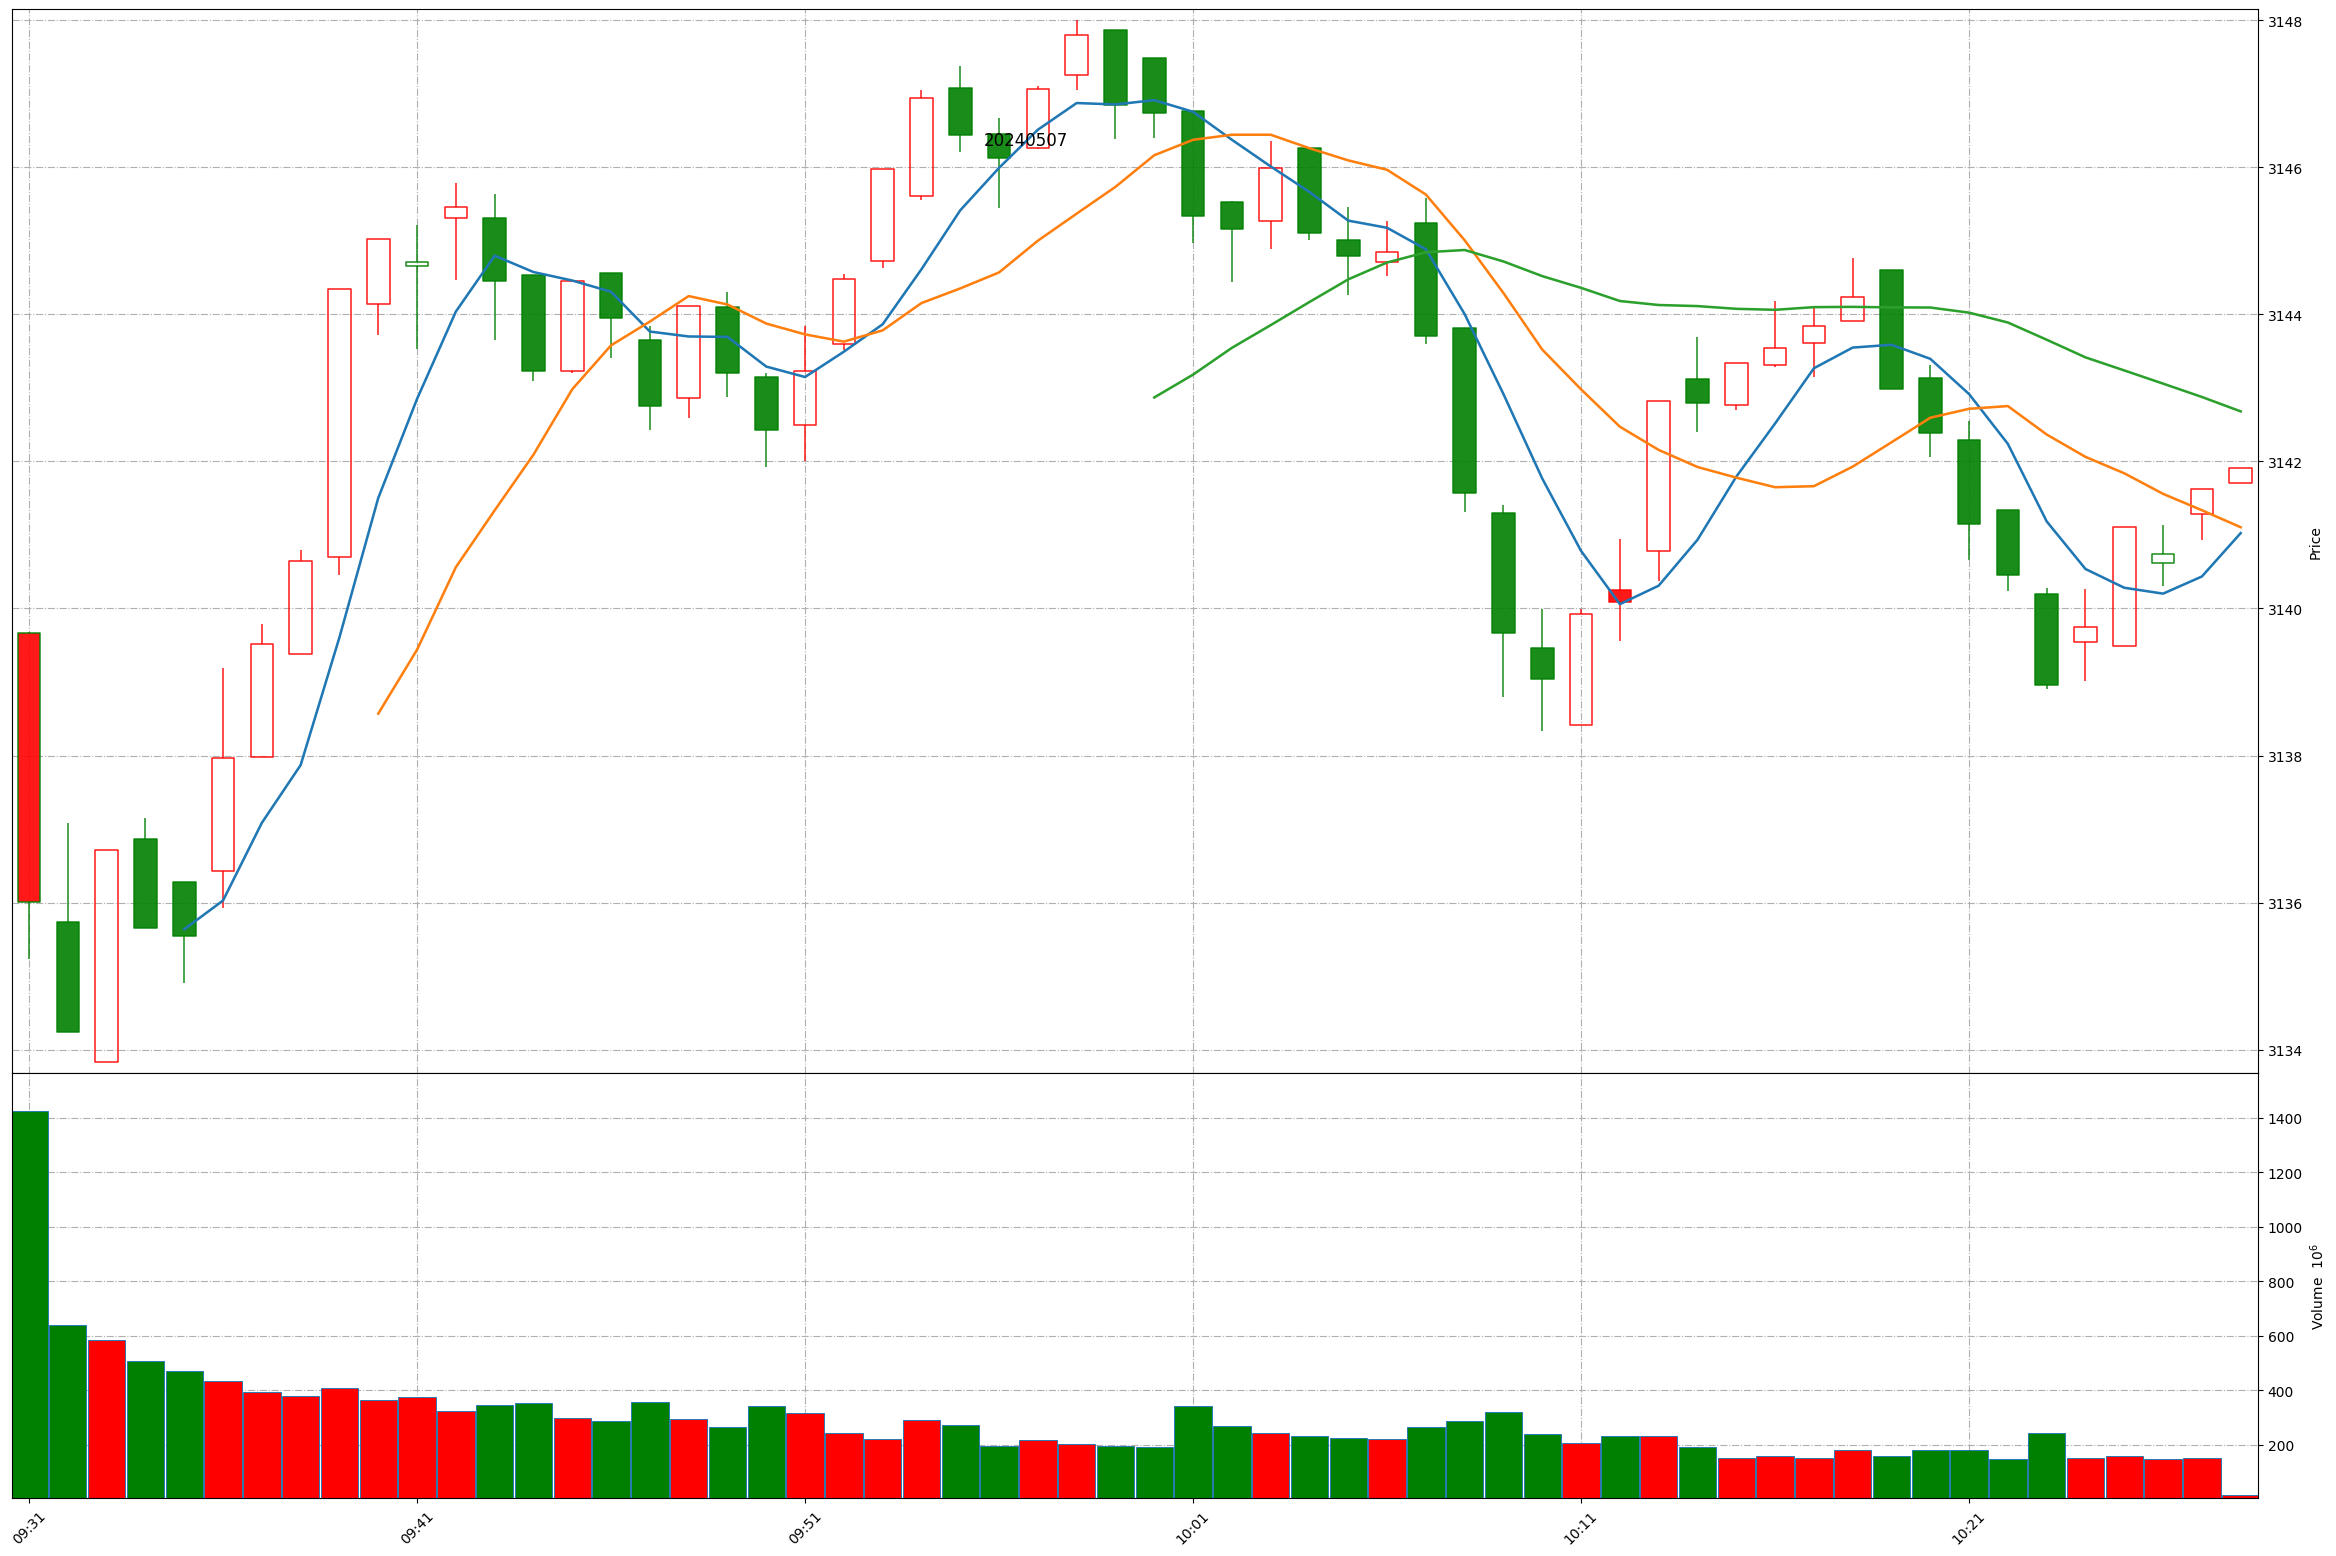
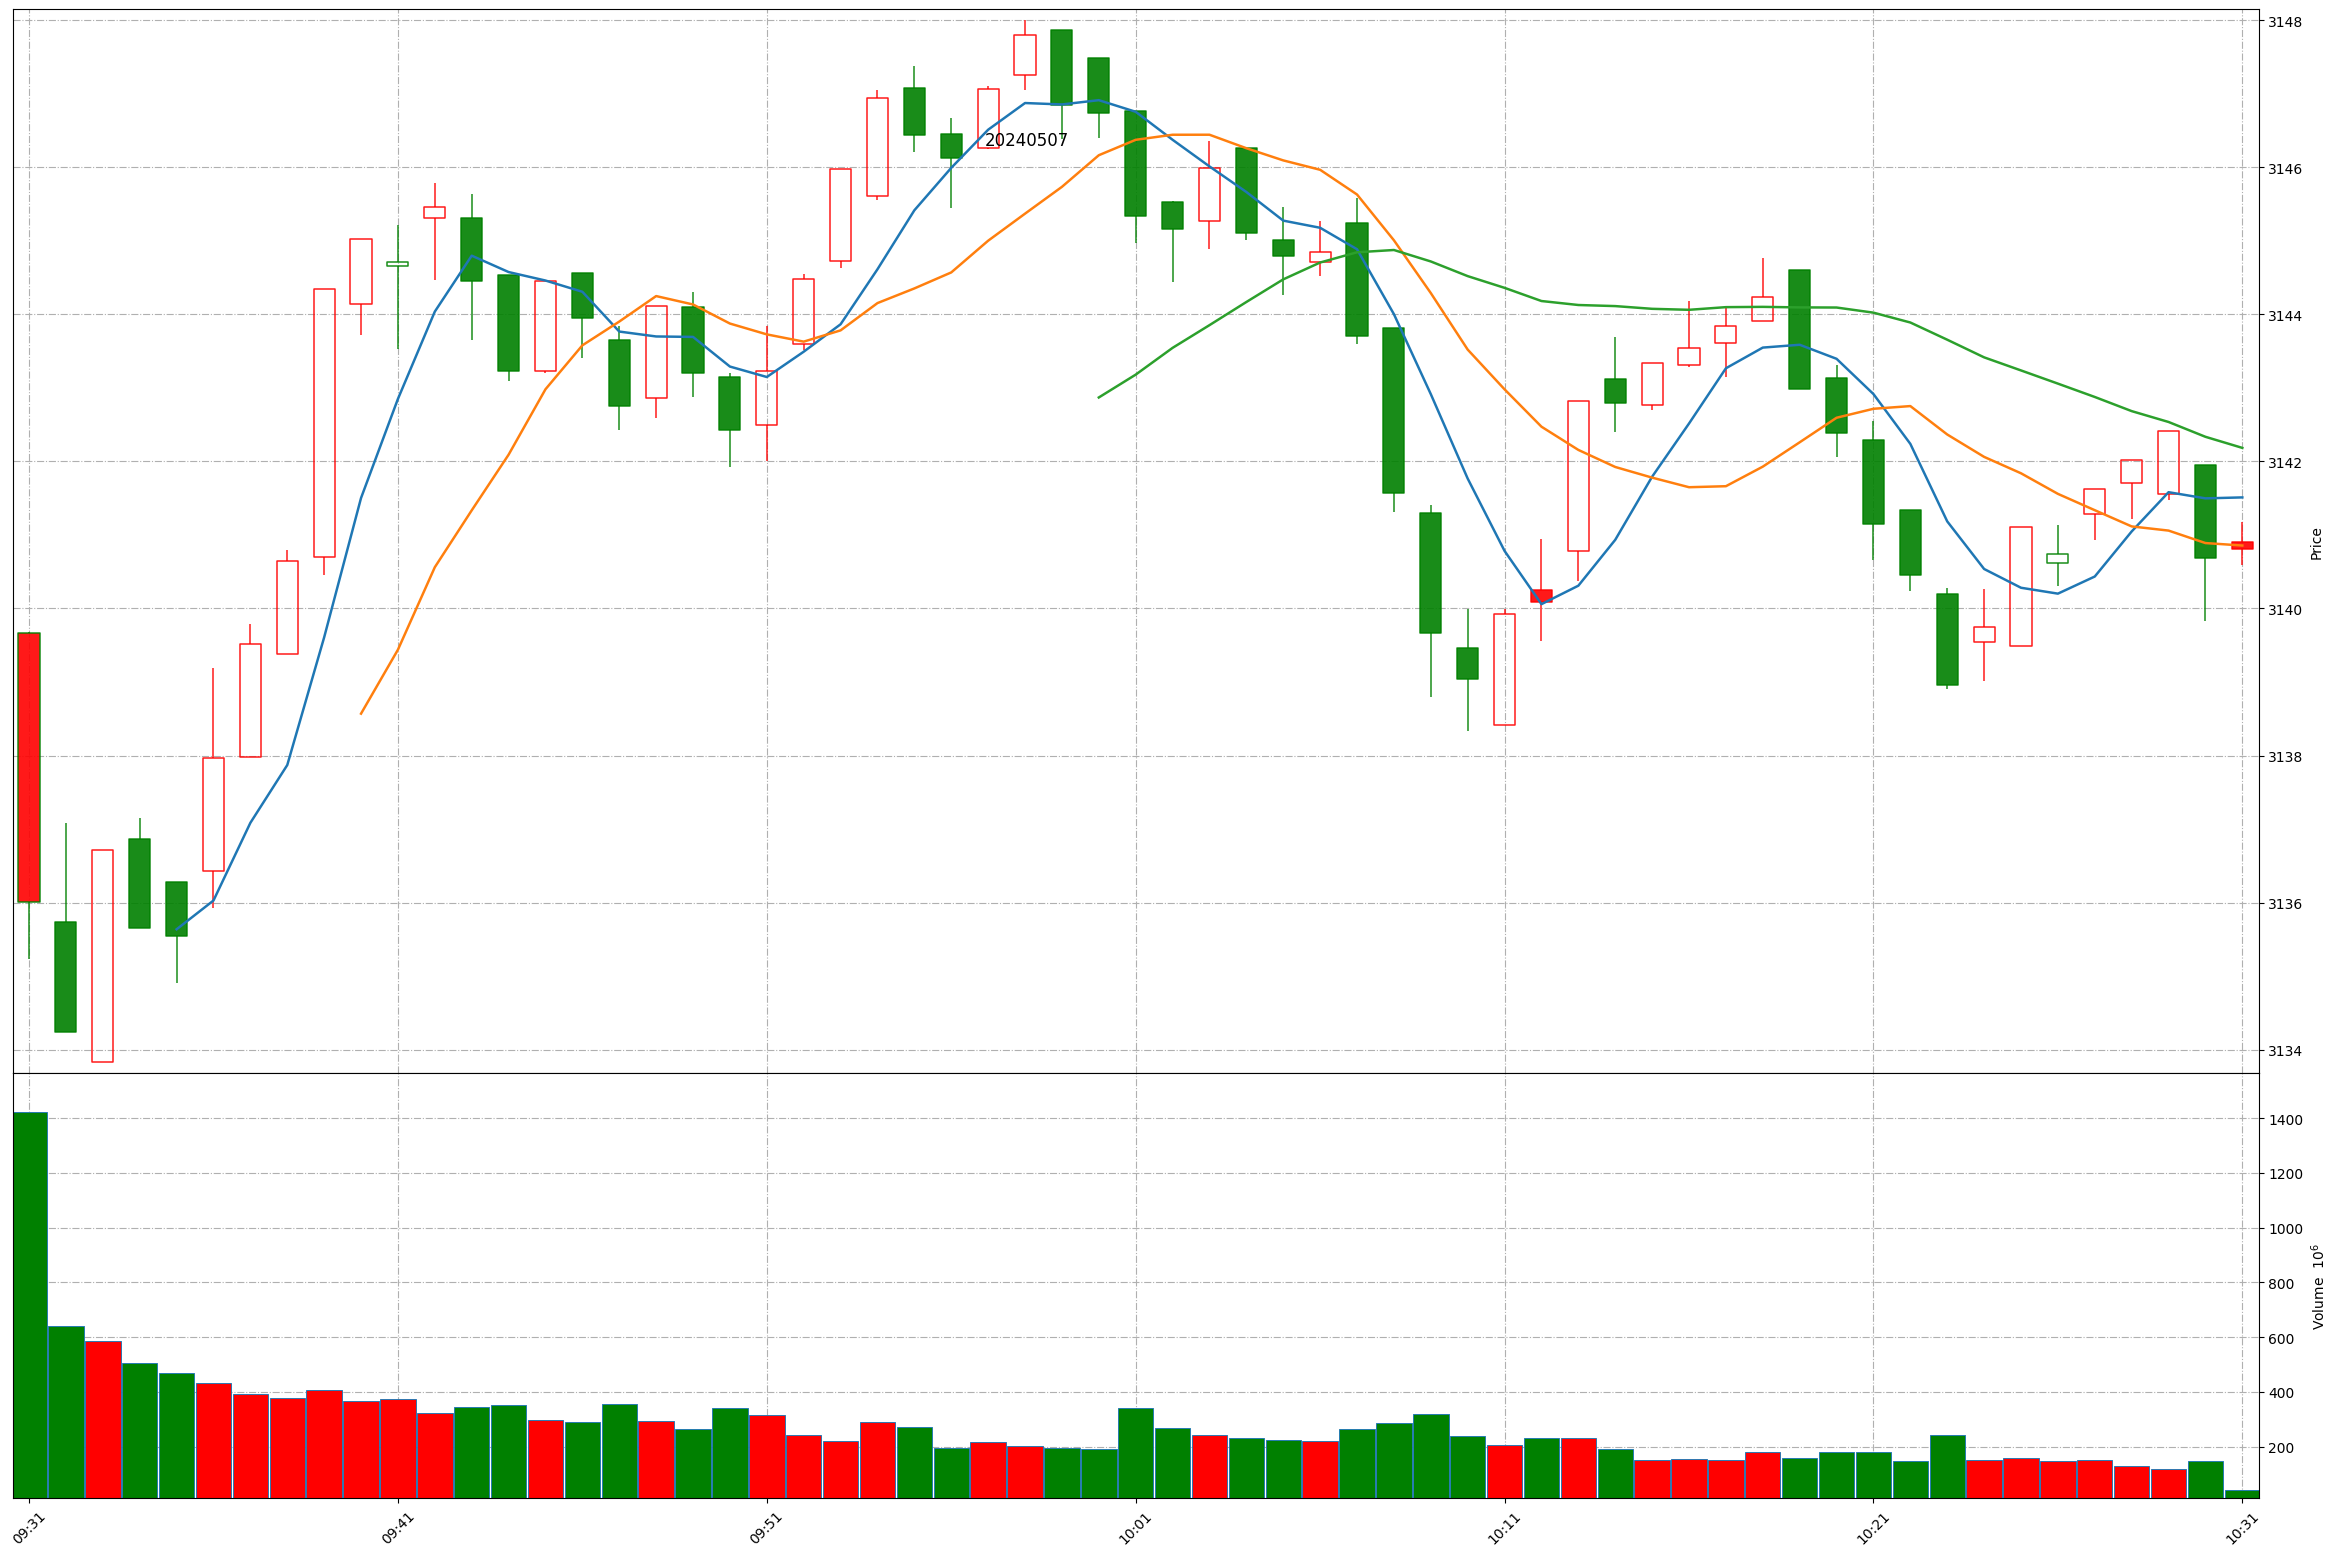
Github action update at 2024-05-07 10:30:44.

diff --git a/README.md b/README.md
@@ -1,11 +1,11 @@
 
 # Daily-A-share-market-quotes 每日 A 股指数（5min 更新）- 20240507
 
-### 上证指数 20240507 10:27
+### 上证指数 20240507 10:30
 ![](./fig/2024/5/20240507-sh000001.png)
 
-### 深证成指 20240507 10:27
+### 深证成指 20240507 10:30
 ![](./fig/2024/5/20240507-sz399001.png)
 
-### 北证50 20240507 10:27
+### 北证50 20240507 10:30
 ![](./fig/2024/5/20240507-bj899050.png)
